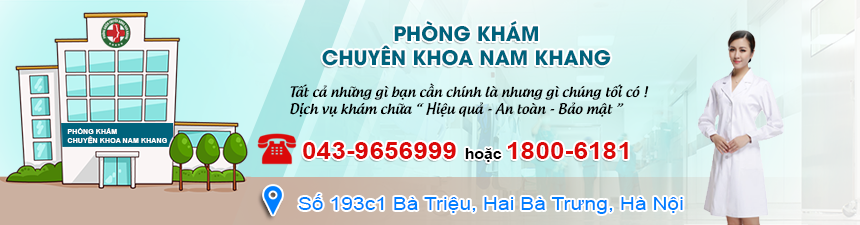
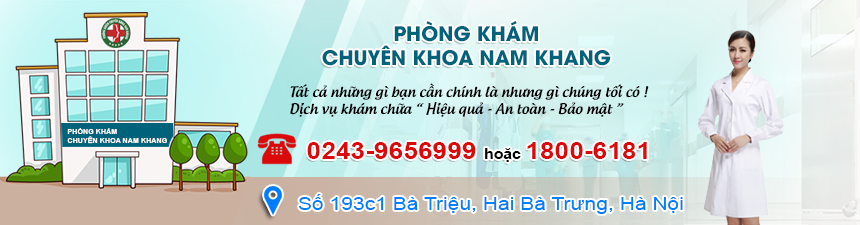
ok

Changed region(s): [[0.3326, 0.6222, 0.7558, 0.7467]]

diff --git a/public/css/desktop/desktop.css b/public/css/desktop/desktop.css
@@ -95,3 +95,5 @@ a{text-decoration: none;}
 .toast8-message a{
   text-decoration: underline;
 }
+#myloadding {position: fixed; display: none; width: 100%; height: 100%; top: 0; left: 0; right: 0; bottom: 0; background-color: rgba(0,0,0,0.6); z-index: 100003; cursor: pointer; }
+#myloadding #mytext{position: absolute; top: 50%; left: 50%; font-size: 50px; color: white; transform: translate(-50%,-50%); -ms-transform: translate(-50%,-50%); font-size: 15px; }

diff --git a/public/css/desktop/desktop-about.css b/public/css/desktop/desktop-about.css
@@ -99,7 +99,7 @@
 }
 .about .row7 .flex1col1 >div h3{
 	padding: 116px 40px;
-    font-size: 15px;
+    font-size: 14px;
 }
 .about .row7 .flex:nth-child(1) .flex1col1:nth-child(1) >div h3{
 	color: #fff;

diff --git a/resources/views/web/desktop/post.blade.php b/resources/views/web/desktop/post.blade.php
@@ -51,7 +51,7 @@
 					<p class="text-justify">
 						<span>Nhắc nhở:</span> Nếu muốn chữa khỏi bệnh, trước tiên bệnh nhân cần có lòng tin rằng bệnh của mình có thể hồi phục. Để hiệu quả chữa trị được tốt, người bệnh hãy tích cực phối hợp và nghiêm ngặt tuân theo yêu cầu của bác sỹ điều trị thì bệnh sẽ được hồi phục nhanh chóng. Bệnh nhân khi thấy có vấn đề bất thường thì cần phải đến bệnh viện thăm khám và chữa trị kịp thời. Bệnh không thể tự khỏi khi bạn kéo dài thời gian, không kịp thời chữa trị sẽ làm cho bệnh phát triển nặng thêm. Vì vậy, bạn hãy kịp thời đi khám, kiểm tra, điều trị sớm mới là tốt.
 					</p>
-					<h4>Số điện thoại tư vấn : <a href="tel:18006181">18006181</a> - <a href="tel:043-9656999">043-9656999</a></h4>
+					<h4>Số điện thoại tư vấn : <a href="tel:18006181">18006181</a> - <a href="tel:0243-9656999">0243-9656999</a></h4>
 					<ul>
 						@php $post_pre = $term->post()->where('id','<',$data['post']->id)->orderBy('id','desc')->first(); @endphp
 						@if($post_pre)

diff --git a/resources/views/web/mobile/post.blade.php b/resources/views/web/mobile/post.blade.php
@@ -135,7 +135,7 @@
 					<span>Nhắc nhở: </span>
 					Nếu muốn chữa khỏi bệnh, trước tiên bệnh nhân cần có lòng tin rằng bệnh của mình có thể hồi phục. Để hiệu quả chữa trị được tốt, người bệnh hãy tích cực phối hợp và nghiêm ngặt tuân theo yêu cầu của bác sỹ điều trị thì bệnh sẽ được hồi phục nhanh chóng. Bệnh nhân khi thấy có vấn đề bất thường thì cần phải đến bệnh viện thăm khám và chữa trị kịp thời. Bệnh không thể tự khỏi khi bạn kéo dài thời gian, không kịp thời chữa trị sẽ làm cho bệnh phát triển nặng thêm. Vì vậy, bạn hãy kịp thời đi khám, kiểm tra, điều trị sớm mới là tốt.
 				</p>
-				<h4>Số điện thoại tư vấn : <a href="tel:18006181">1800-6181</a> - <a href="tel:043-9656999">043-9656999</a></h4>
+				<h4>Số điện thoại tư vấn : <a href="tel:18006181">1800-6181</a> - <a href="tel:0243-9656999">0243-9656999</a></h4>
 			</div>
 		</div>
 		<div class="posts-lienquan">

diff --git a/resources/views/layout/desktop2.blade.php b/resources/views/layout/desktop2.blade.php
@@ -78,7 +78,7 @@
 							<td><img src="{{ asset('public/images/desktop2/home-2.png') }}" alt=""></td>
 							<td>
 								<p>Đường dây nóng 24h</p>
-								<div class="phone"><a href="tel:043-9656999">043-9656999</a></div>
+								<div class="phone"><a href="tel:0243-9656999">0243-9656999</a></div>
 								<div class="phone"><a href="tel:1800-6181">1800-6181</a></div>
 							</td>
 						</tr>
@@ -128,7 +128,7 @@
 					<tr>
 						<td>
 							<p><span>Thời gian hoạt động :</span> 8h - 20h ( làm việc cả chủ nhật và ngày lễ)</p>
-							<p><span>ĐIỆN THOẠI LIÊN HỆ :</span>   <span class="phone">1800 - 6181</span>   <span class="phone">043-9656999</span></p>
+							<p><span>ĐIỆN THOẠI LIÊN HỆ :</span>   <span class="phone">1800 - 6181</span>   <span class="phone">0243-9656999</span></p>
 							<p><span>Địa chỉ phòng khám :</span> Số 193c1 Bà Triệu, Hai Bà Trưng, Hà Nội</p>
 						</td>
 						<td>

diff --git a/resources/views/layout/desktop.blade.php b/resources/views/layout/desktop.blade.php
@@ -94,7 +94,7 @@
 					<div class="flex3col2 flex justify-content-center align-items-center">
 						<div>
 							<h5 class="text-uppercase">Đường dây nóng khẩn cấp</h5>
-							<h2 class="text-center"><a href="tel:043-9656999">043 - 9656999</a></h2>
+							<h2 class="text-center"><a href="tel:0243-9656999">0243 - 9656999</a></h2>
 							<h2 class="text-center"><a href="tel:1800 - 6181">1800 - 6181</a></h2>
 						</div>
 					</div>
@@ -226,7 +226,7 @@
 					<p>( 8:00 -20:00) bao gồm cả ngày lễ tết </p>
 					<p>Điện thoại liên hệ :</p>
 					<p><a href="tel:1800 - 6181">1800 - 6181</a></p>
-					<p><a href="tel:043-9656999">043-9656999</a></p>
+					<p><a href="tel:0243-9656999">0243-9656999</a></p>
 				</div>
 				<div class="flex1col3">
 					<h4 class="text-center text-uppercase">Phòng khám của nam giới</h4>

diff --git a/resources/views/layout/mobile.blade.php b/resources/views/layout/mobile.blade.php
@@ -120,7 +120,7 @@
 	@yield('content')	
 	<footer>
 		<div class="container">
-			<p>Điện thoại tư vấn đặt hẹn: <a href="tel:18006181">1800 6181</a> - <a href="tel:0439.656.999">0439.656.999</a></p>
+			<p>Điện thoại tư vấn đặt hẹn: <a href="tel:18006181">1800 6181</a> - <a href="tel:02439.656.999">02439.656.999</a></p>
 			<p>Thời gian mở cửa: <a href="tel:18006181">8:00 - 20:00</a></p>
 			<p>Địa chỉ phòng khám: <a href="tel:18006181">193C1 BÀ TRIỆU – HAI BÀ TRƯNG – HÀ NỘI</a></p>
 		</div>
